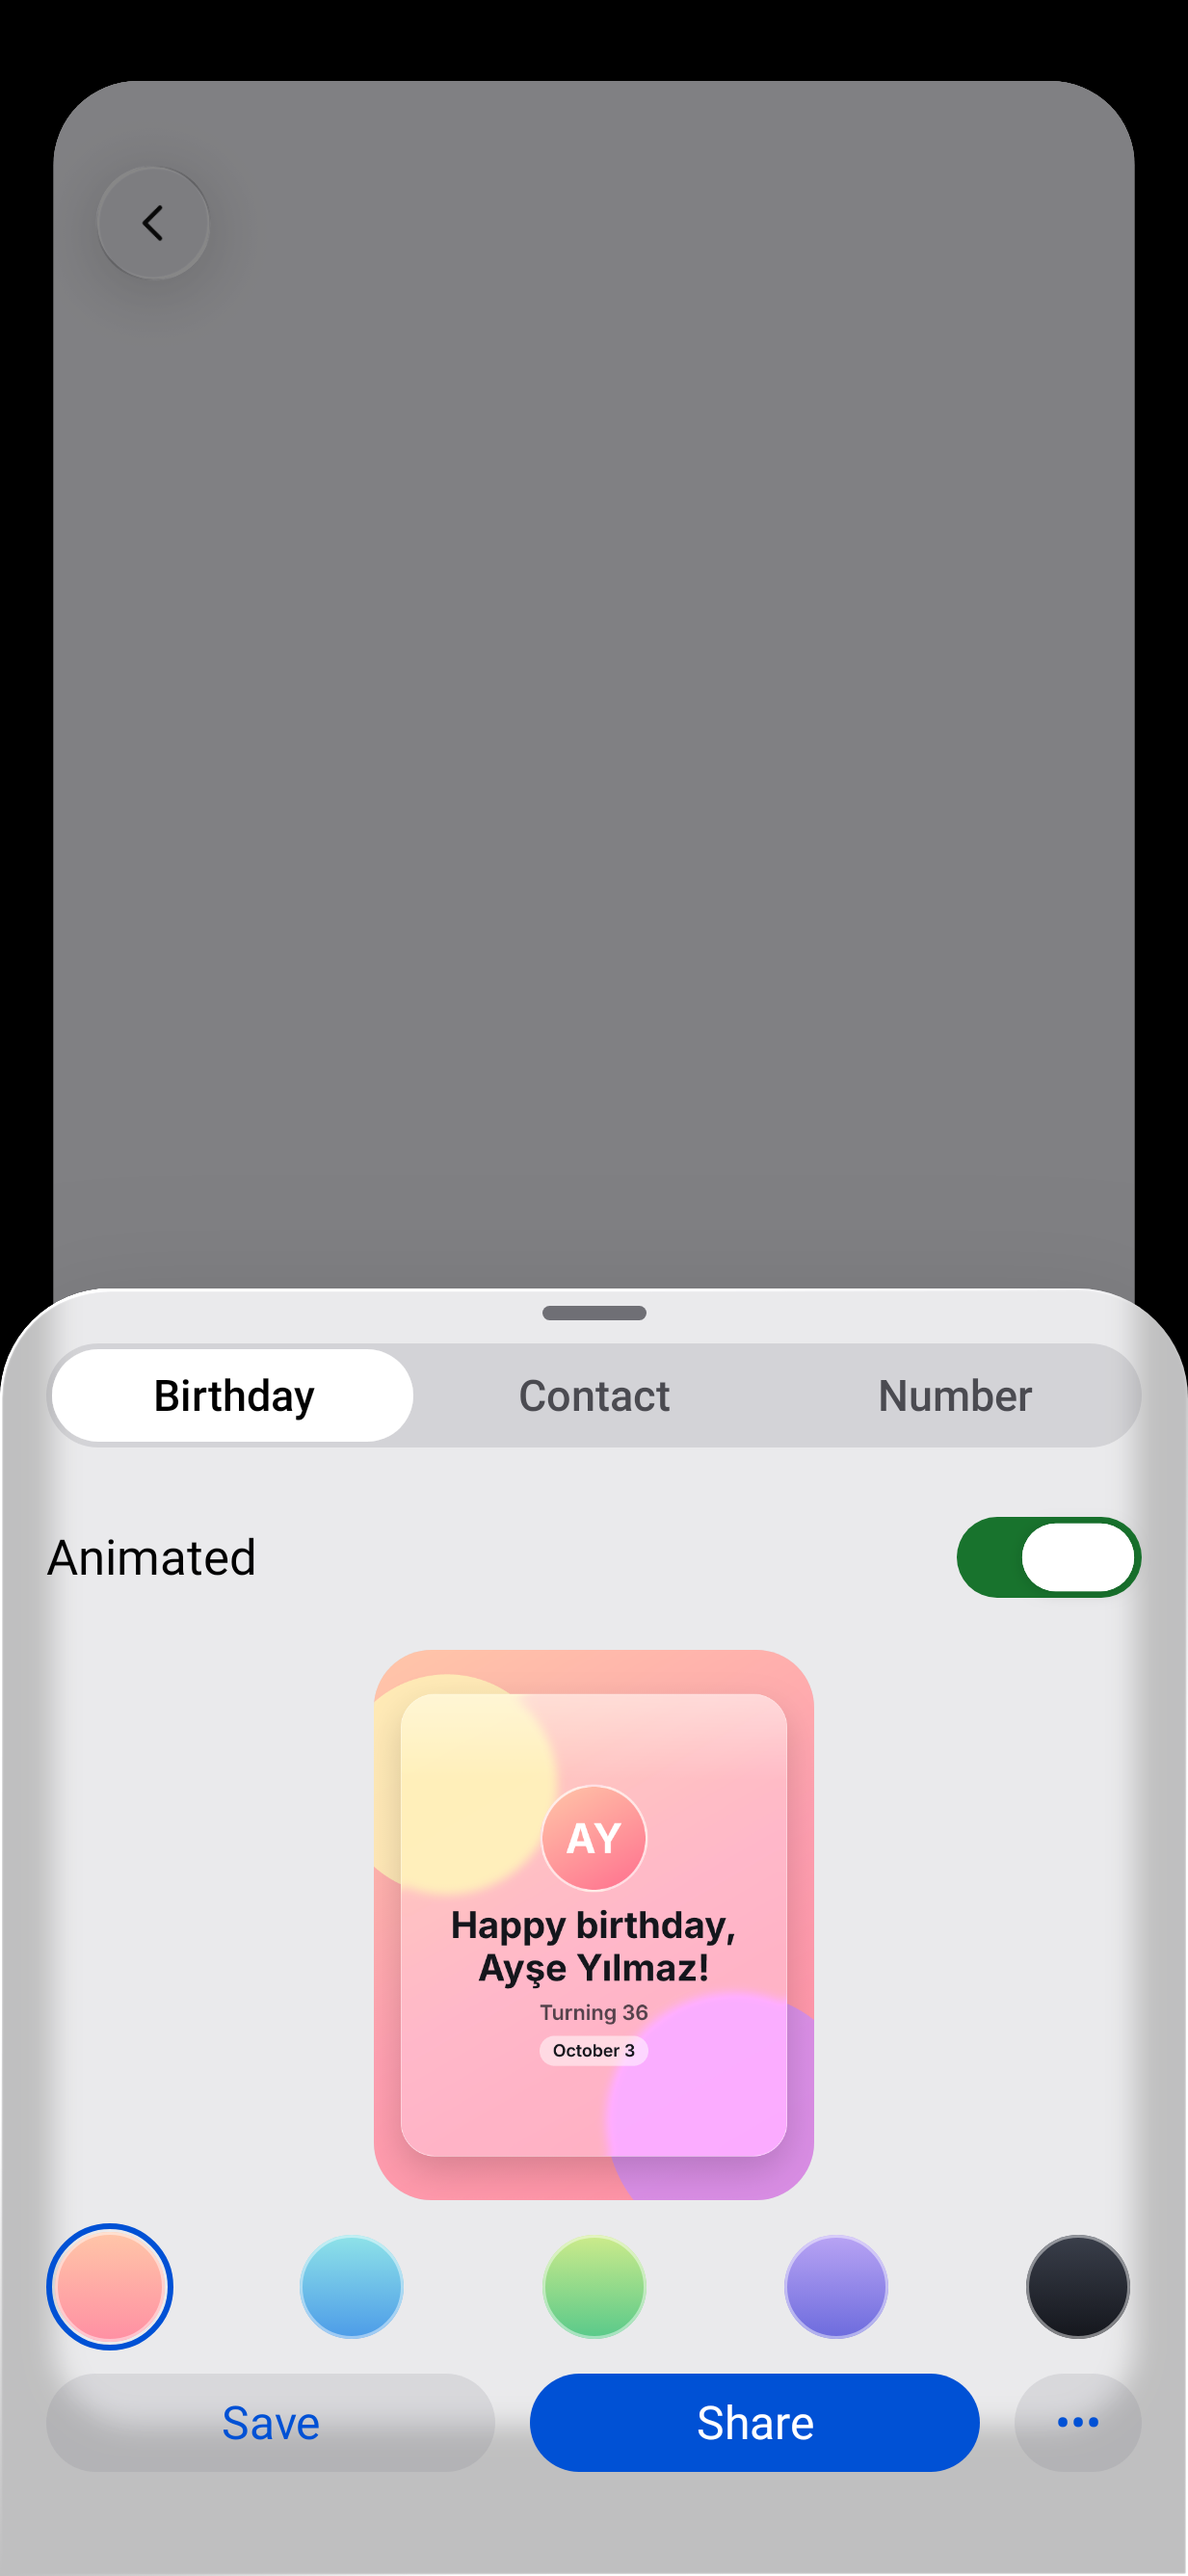
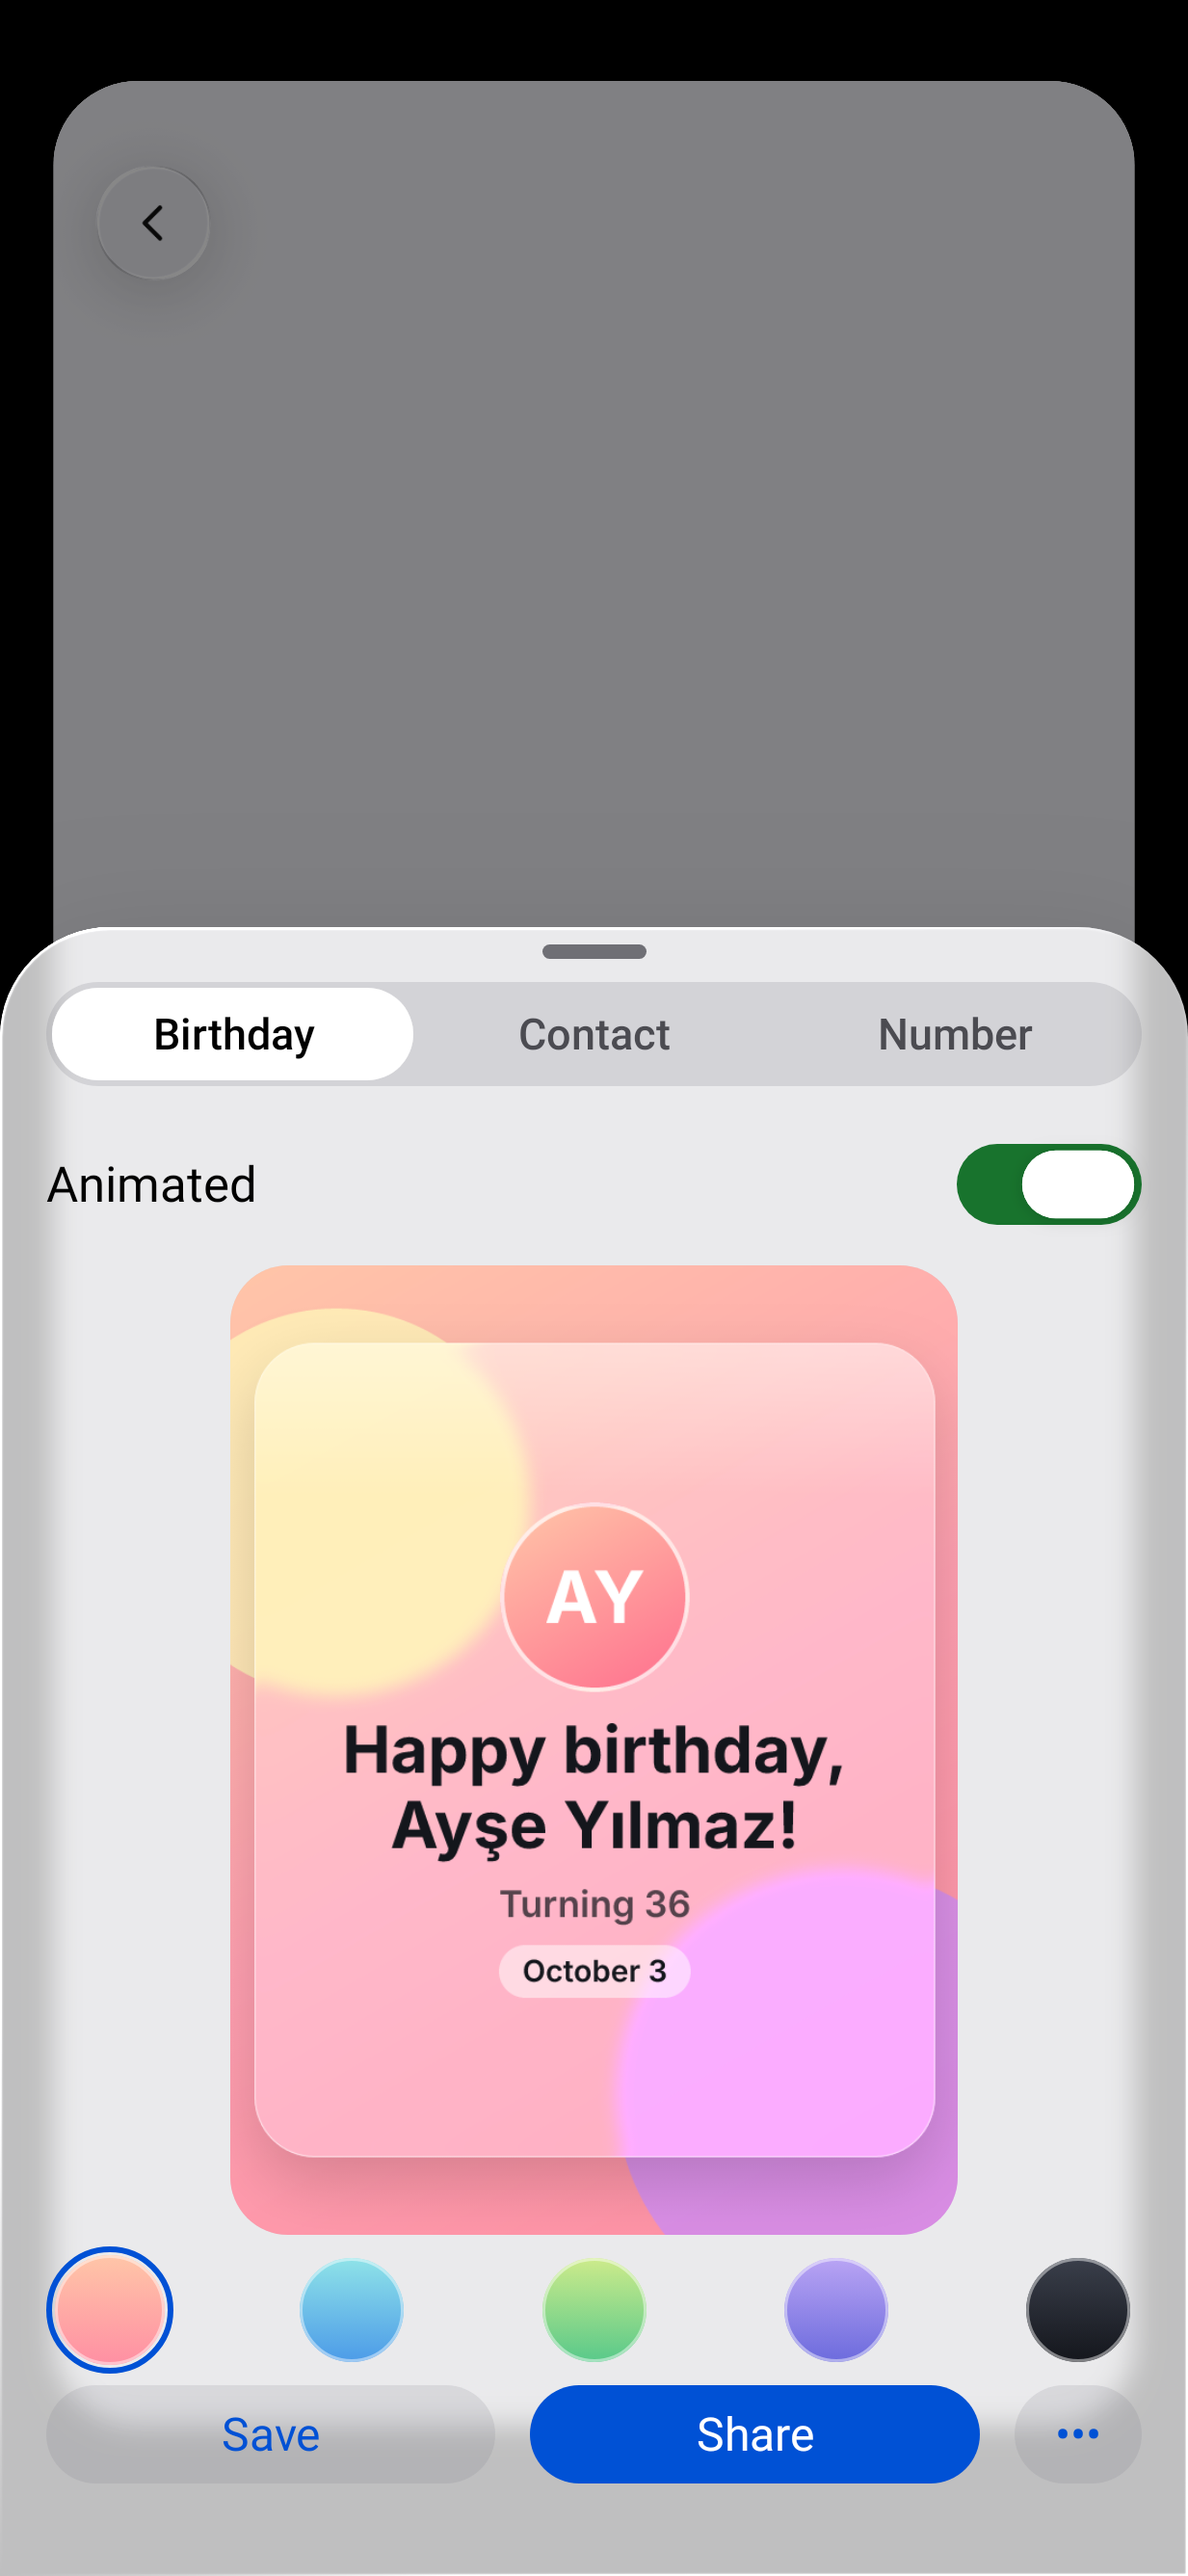
Kotlin UI (X. Cross-app owner requests: X.2b, glass optics of the animated share card and one-shot GIF playback (reopened from X.2; next planner after X.2b is E8 R1)): Bigger preview: Medium + Large detents (R18-F1)
Claude-Session: https://claude.ai/code/session_011osUpA1K6vuojYE5Xq1SJx

diff --git a/android/contacts/src/test/kotlin/dev/rosty/contacts/cards/CardStudioSheetTest.kt b/android/contacts/src/test/kotlin/dev/rosty/contacts/cards/CardStudioSheetTest.kt
@@ -163,6 +163,54 @@ class CardStudioSheetTest : ShotTest() {
         assertEquals(CardStudioMetrics.Aspect, during.width.value / during.height.value, 0.01f)
     }
 
+    private fun overlap(
+        a: androidx.compose.ui.geometry.Rect,
+        b: androidx.compose.ui.geometry.Rect,
+    ) = a.left < b.right && a.right > b.left && a.top < b.bottom && a.bottom > b.top
+
+    /** R18-F1: at the first detent the card is at least 55% of the sheet width, and nothing in the sheet overlaps. */
+    @Test fun theMediumPreviewIsAtLeastHalfAndABitOfTheSheetWidthAndNothingOverlaps() {
+        rig()
+        val window = compose.onRoot().fetchSemanticsNode().boundsInRoot
+        val preview = bounds(CardStudioTags.Preview)
+        assertTrue("preview ${preview.width} of ${window.width}", preview.width >= 0.55f * window.width)
+        assertEquals(CardStudioMetrics.Aspect, preview.width / preview.height, 0.01f)
+        val tags =
+            listOf(
+                CardStudioTags.Templates,
+                CardStudioTags.Animated,
+                CardStudioTags.Preview,
+                CardStudioTags.Swatches,
+                CardStudioTags.Save,
+                CardStudioTags.Share,
+            )
+        for (i in tags.indices) {
+            for (j in i + 1 until tags.size) {
+                assertFalse("${tags[i]} overlaps ${tags[j]}", overlap(bounds(tags[i]), bounds(tags[j])))
+            }
+        }
+        val swatches = CardPalette.entries.map { bounds(CardStudioTags.swatch(it)) }
+        assertTrue("one row", swatches.all { it.top == swatches.first().top })
+        assertTrue("buttons inside the window", bounds(CardStudioTags.Share).bottom <= window.bottom)
+    }
+
+    /** R18-F1: at Large the card grows to the content width at 3:4. */
+    @Test fun theLargePreviewFillsTheContentWidthAtThreeByFour() {
+        val r = rig()
+        compose.runOnUiThread { r.entry?.sheet?.animateToDetent(0) }
+        r.settle(10)
+        val window = compose.onRoot().fetchSemanticsNode().boundsInRoot
+        val sheet = bounds(CardStudioTags.Sheet)
+        val preview = bounds(CardStudioTags.Preview)
+        assertEquals("content width", sheet.width, preview.width, 1f)
+        assertEquals(0.75f, preview.width / preview.height, 0.01f)
+        assertTrue(preview.width > 0.8f * window.width)
+        assertTrue(
+            "buttons clear of the bottom",
+            bounds(CardStudioTags.Share).bottom <= window.bottom,
+        )
+    }
+
     @Test fun theMoreButtonOnlyExistsForAnAnimatedCardAndSharesAStill() {
         val r = rig()
         r.files.staged = android.net.Uri.parse("content://x/card.gif")

diff --git a/android/contacts/src/main/kotlin/dev/rosty/contacts/cards/CardStudioSheet.kt b/android/contacts/src/main/kotlin/dev/rosty/contacts/cards/CardStudioSheet.kt
@@ -89,8 +89,11 @@ import kotlinx.coroutines.withContext
 
 /** Fixed numbers of the sheet; the preview's aspect is the same for every template, so nothing jumps on a switch. */
 internal object CardStudioMetrics {
-    /** Width over height of the preview box (a 4:5 card). */
-    const val Aspect = 0.8f
+    /** Width over height of the preview box (3:4); it takes the room the controls leave, so Large widens it to the content width. */
+    const val Aspect = 0.75f
+
+    /** The resting height of the first detent as a share of the window: Medium (0.5) leaves a card under 40% of the width. */
+    const val MediumShare = 0.64f
     val Swatch = Sizes.swatch
     val Ring = Sizes.ring
     val RingStroke = Sizes.ringStroke
@@ -98,7 +101,7 @@ internal object CardStudioMetrics {
 }
 
 /**
- * Opens Card Studio in a medium sheet over the page. Closing the sheet (drag, scrim, back) cancels the running render
+ * Opens Card Studio in a medium-and-large sheet over the page. Closing the sheet (drag, scrim, back) cancels the running render
  * through [CardStudioViewModel.close]; back closes the sheet before it reaches the page behind.
  */
 fun OverlayController.presentCardStudio(
@@ -110,7 +113,7 @@ fun OverlayController.presentCardStudio(
     val entry =
         SheetEntry(
             title = context.getString(R.string.card_studio_title),
-            detents = persistentListOf(Detent.Medium),
+            detents = persistentListOf(Detent.Fraction(CardStudioMetrics.MediumShare), Detent.Large),
             onDismissed = model::close,
         ) { _ ->
             val state by model.state.collectAsState()
@@ -143,9 +146,9 @@ internal fun ColumnScope.CardStudioContent(
             .fillMaxWidth()
             .weight(1f)
             .padding(horizontal = Spacing.gutter)
-            .padding(bottom = Spacing.m)
+            .padding(bottom = Spacing.s)
             .testTag(CardStudioTags.Sheet),
-        verticalArrangement = Arrangement.spacedBy(Spacing.s),
+        verticalArrangement = Arrangement.spacedBy(Spacing.xs),
     ) {
         SegmentedControl(
             items = names,

diff --git a/android/contacts/src/test/kotlin/dev/rosty/contacts/cards/X2ShotTest.kt b/android/contacts/src/test/kotlin/dev/rosty/contacts/cards/X2ShotTest.kt
@@ -136,6 +136,12 @@ class X2ShotTest : ShotTest() {
 
     @Test fun birthdayFs2() = studio("x2-card-preview-birthday-fs2", fontScale = 2f)
 
+    @Test fun birthdayLarge() =
+        studio("x2-card-preview-birthday-large", darks = listOf(false)) { r ->
+            compose.runOnUiThread { r.entry?.sheet?.animateToDetent(0) }
+            r.settle(10)
+        }
+
     @Test fun chipOnCard() {
         val r = CardRig(1).also { rig = it }
         val state = r.ready()

diff --git a/_bmad-output/kotlin-ui/plans/round-18.md b/_bmad-output/kotlin-ui/plans/round-18.md
@@ -138,3 +138,19 @@ Frames written by `writes_720_px_optics_frames_for_review` (`WRITE_CARD_FRAMES=1
   The step could not be committed from a shared, moving tree, so it was stashed as blocked; the Rust itself was
   complete. Not a technical failure of the optics (Takumi 2.18.2 applies the SVG backdrop filter).
 - `stash@{0}` dropped.
+
+## Step 5 result (r18-s5, bigger preview, R18-F1)
+
+- `CardStudioSheet`: detents are now `Fraction(0.64)` and `Large` (was `Medium` only). Deviation from the plan text: with
+  `Detent.Medium` (50% of a 891 dp window = 445 dp) the controls (grabber, segmented, toggle, swatches, buttons, gesture
+  inset, about 215 dp) leave a card of about 230 dp height, 38% of the sheet width at 3:4, so 55% is not reachable at
+  Medium without dropping a control. The first detent is therefore 0.64 of the window; the Large detent is as asked.
+- Preview aspect is now 3:4 (was 4:5); it still takes the leftover height (`weight(1f)`, `aspectRatio(matchHeightConstraintsFirst)`)
+  so at Large it widens to the content width. Header rows compacted (4 dp gaps, 8 dp bottom padding).
+- Tests (`CardStudioSheetTest`): preview >= 0.55 x sheet width at the first detent and no two of
+  templates/toggle/preview/swatches/save/share overlap, swatches on one row; at Large preview width == content width at 3:4.
+- x2 goldens re-recorded (light, dark, tr, fs2) plus new `x2-card-preview-birthday-large-light`. All opened:
+  preview is 61% of the sheet width at the first detent (was 37%); no text crosses the card; swatches stay on one row,
+  also at fs2; the "..." menu opens upward over the swatches and the card, the toggle stays readable; Save/Share sit
+  clear of the bottom edge (about 35 dp) at fs1 and fs2; at Large the card is the full content width with free space
+  above and below it (centred), buttons unchanged. Rendering ring in the gif-rendering shot sits inside the card corner.
